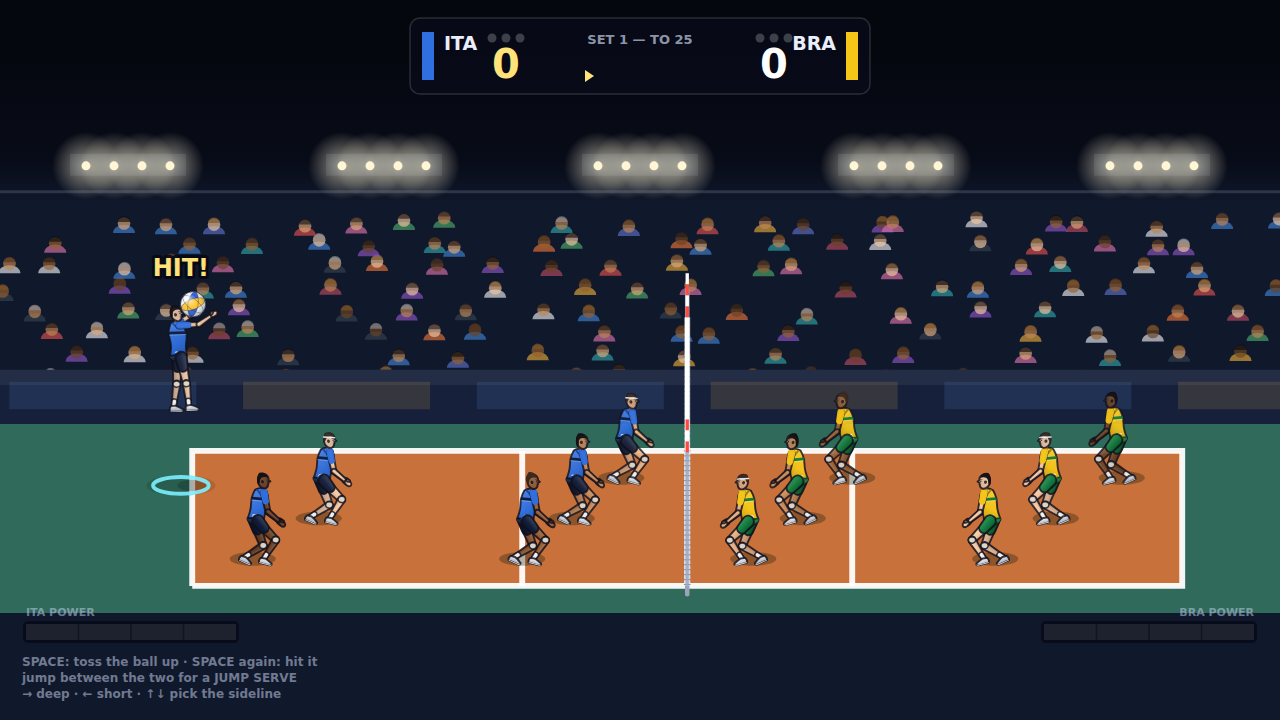
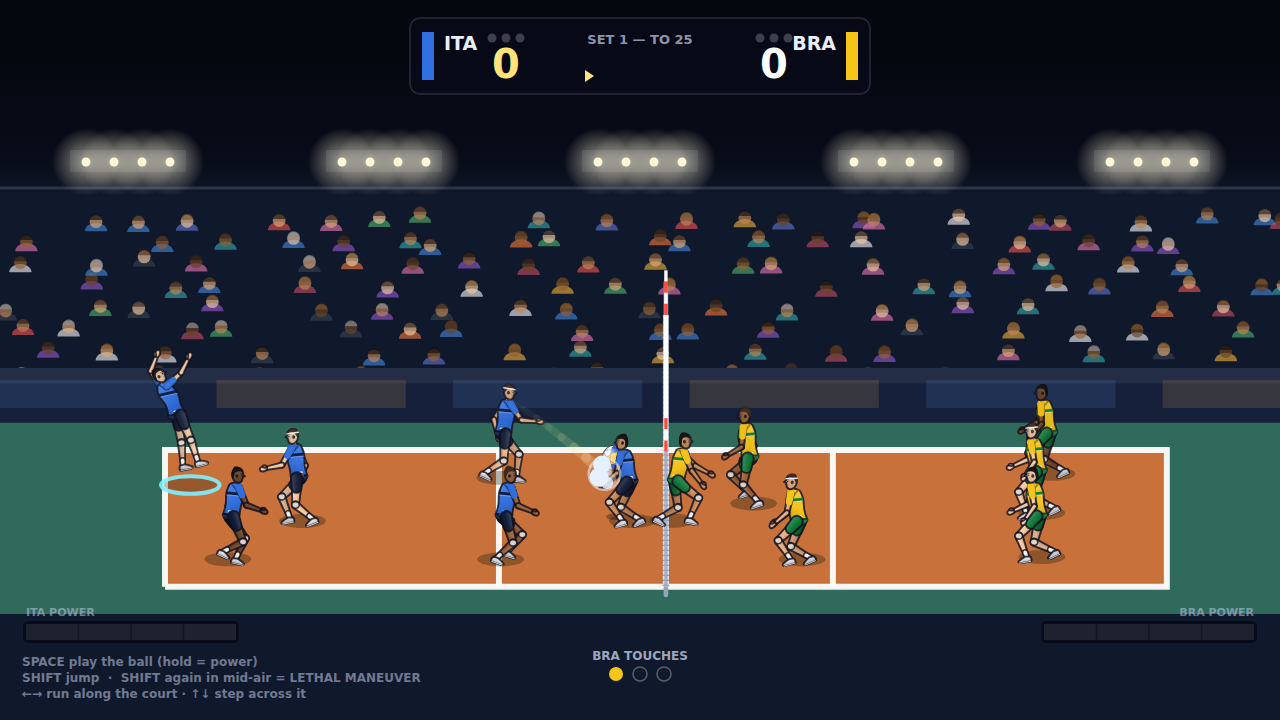
Fix the run cycle: forward-folding elbows, feet that carry the stride
The run was the one animation the pose table's correction never reached. Its
override still bent the elbows with a positive value — the convention the
rest of the file abandoned, because elbows fold FORWARD and take negative
bends — so a running player's forearms pointed backwards and the arms read
as fighting the legs.

The stride is now driven by the feet, like the other grounded poses, and
each foot lifts while it swings forward and stays planted while it travels
back under the body. Lifting it at the front of the stride, where it should
be reaching for the floor, is what makes a run look like skating.

The arm and leg pairing was already contralateral and stays that way: the
leg that swings forward pairs with the arm on the other side.

The pose sheet now shows four points of the run cycle, so this is inspectable
rather than a matter of opinion.

Claude-Session: https://claude.ai/code/session_01H95JHcWRyVB2YjwLduBdEB

diff --git a/src/render/players.ts b/src/render/players.ts
@@ -326,16 +326,35 @@ export function drawPlayer(
 
   let target = POSES[animKey] ?? POSES.idle;
   if (p.anim === 'run') {
+    // A stride is contralateral: the leg that swings forward pairs with the
+    // arm on the OTHER side. `phase` drives the far leg; the far arm takes
+    // the opposite sign, the near pair mirrors both.
     const phase = Math.sin(st.runPhase);
-    const lift = Math.max(0, -phase);
+    // Each foot is planted at the back of its stride and lifts through the
+    // front of it, so the run is driven by the floor like the other grounded
+    // poses instead of floating on joint angles.
+    const stride = 0.26;
+    // A foot is planted while it travels BACKWARD under the body and lifts
+    // while it swings forward. Lifting it at the front of the stride instead
+    // — where it should be reaching for the floor — is what turns a run into
+    // a skate. The foot moves forward when cos(phase) is positive.
+    const swingPhase = Math.cos(st.runPhase);
+    const farLift = Math.max(0, swingPhase) * 0.15;
+    const nearLift = Math.max(0, -swingPhase) * 0.15;
     target = {
       ...target,
       // A touch of vertical bob per stride sells the footfalls.
-      crouch: target.crouch + Math.abs(Math.cos(st.runPhase)) * 0.05,
-      legFar: [0.72 * phase, 0.15 + lift * 1.1],
-      legNear: [-0.72 * phase, 0.15 + Math.max(0, phase) * 1.1],
-      armFar: [0.95 * -phase, 0.85],
-      armNear: [-0.95 * -phase, 0.85],
+      crouch: target.crouch + Math.abs(Math.cos(st.runPhase)) * 0.06,
+      // Elbows fold FORWARD, so their bend is negative. This override kept the
+      // positive value the whole pose table was corrected away from, which is
+      // why a running player's forearms pointed the wrong way and the arms
+      // read as fighting the legs.
+      armFar: [-0.9 * phase, -0.95],
+      armNear: [0.9 * phase, -0.95],
+      feet: [
+        [stride * phase, farLift],
+        [-stride * phase, nearLift],
+      ],
     };
   } else if (p.anim === 'idle') {
     const breathe = Math.sin(opts.time * 2.1 + p.id) * 0.025;

diff --git a/src/dev/pose-sheet.ts b/src/dev/pose-sheet.ts
@@ -23,6 +23,9 @@ interface Cell {
 const CELLS: Cell[] = [
   { label: 'idle', anim: 'idle' },
   { label: 'run', anim: 'run' },
+  { label: 'run 2', anim: 'run' },
+  { label: 'run 3', anim: 'run' },
+  { label: 'run 4', anim: 'run' },
   {
     label: 'jump rise',
     anim: 'jump',
